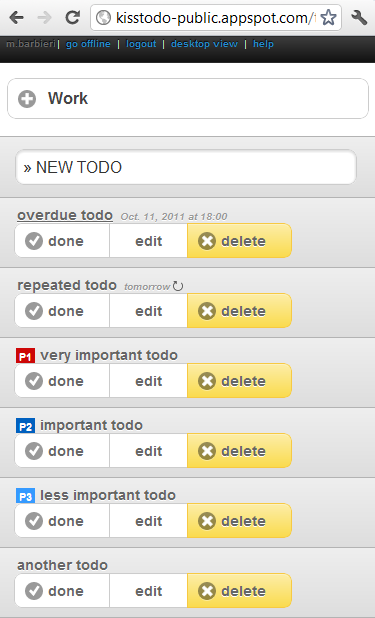
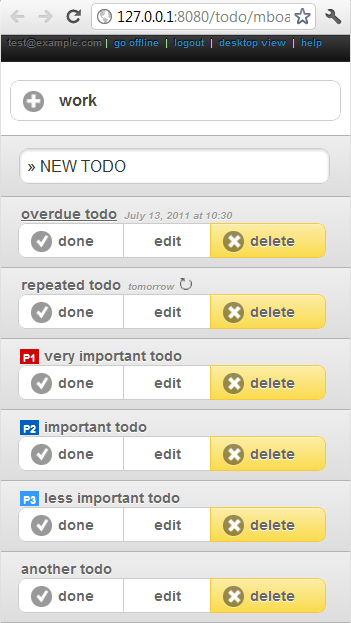
minor style fixes

Changed region(s): [[0.0, 0.0, 1.0, 0.9838], [0.3419, 0.9223, 0.9402, 0.9838]]

diff --git a/templates/todo/todo_item.html b/templates/todo/todo_item.html
@@ -1,10 +1,10 @@
 {% load humanize %}
 <span class="todo_priority todo_priority_{{ todo.priority }}">{% if todo.priority < 4%}&nbsp;P{{ todo.priority }}&nbsp;{% endif %}</span>
 <span class="todo_description {% if todo.is_overdue %}overdue{% endif %}{% if todo.is_today%} today{% endif %}"><a href="#">{{ todo.description }}</a></span>
-<span class="small todo_list_name">{% if todo.due_date %}&nbsp;{{todo.due_date|naturalday}}{% if not todo.due_date|time:"H:i" == "00:00"%} at {{todo.due_date|time:"G:i"}}{% endif %}{% endif %}{% if todo.repeat_type %}&nbsp;<img alt="repeat" src="{{MEDIA_URL}}img/repeat.png" />{% endif %}{% if show_list %}&nbsp;[{{todo.list.name}}]{% endif %}</span>
+<span class="small todo_list_name">{% if todo.due_date %}&nbsp;{{todo.due_date|naturalday}}{% if not todo.due_date|time:"H:i" == "00:00"%} at {{todo.due_date|time:"G:i"}}{% endif %}{% endif %}{% if todo.repeat_type %}&nbsp;&nbsp;<img alt="repeat" src="{{MEDIA_URL}}img/repeat.png" />{% endif %}{% if show_list %}&nbsp;[{{todo.list.name}}]{% endif %}</span>
 <span class="no_background todo_delete_button_container" style="text-decoration: none;">
 {% if mobile %}
-<br/>
+<div style="margin: 1px 0 0 0" />
 <span data-role="controlgroup" data-type="horizontal">
 <a style="margin-left:-1px;" class='complete_button' href='#' data-ajax='false' data-role='button' data-icon='check' data-inline='true'>done</a>
 <a class='edit_button' href='#' data-ajax='false' data-role='button' data-inline='true'>edit</a>

diff --git a/static/css/main.css b/static/css/main.css
@@ -129,7 +129,7 @@ ul.todos li {
 	padding: 5px;
 }
 
-.complete {
+.complete .todo_item {
     color:#999;
     text-decoration: line-through;
     font-style:italic;

diff --git a/static/css/main_mobile.css b/static/css/main_mobile.css
@@ -201,4 +201,3 @@ div.ui-datepicker {
 .content_title {
     width:100px;
 }
-

diff --git a/app_version.py b/app_version.py
@@ -16,6 +16,6 @@
 
 APP_VERSION_MAJOR=1
 APP_VERSION_MINOR=27
-APP_VERSION_FIX=366
+APP_VERSION_FIX=387
 
 APP_VERSION="%s.%s.%s" % (APP_VERSION_MAJOR, APP_VERSION_MINOR, APP_VERSION_FIX)
